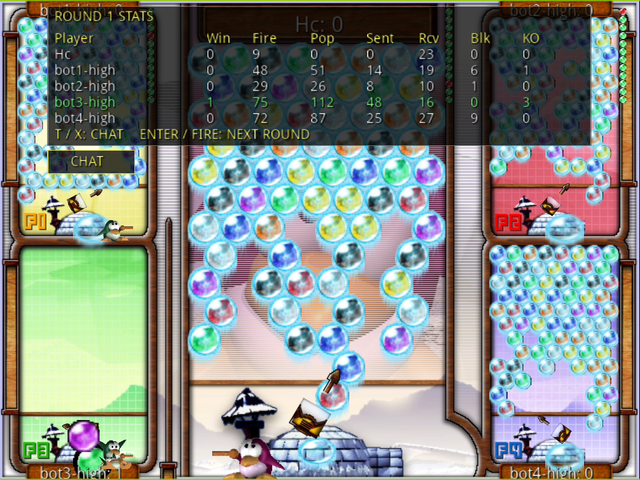
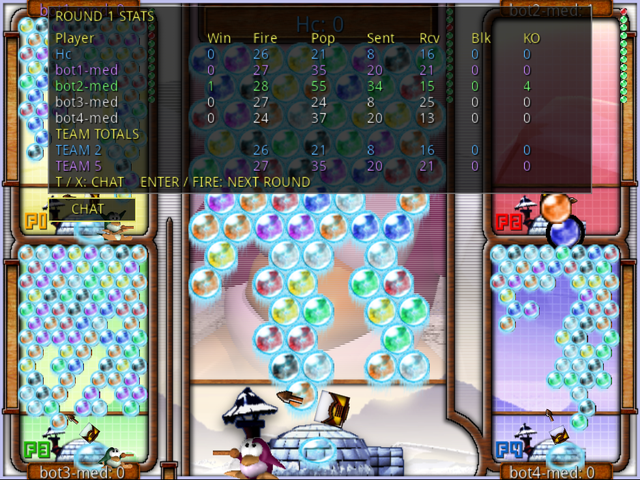
docs: refresh round-stats screenshot to show team totals
Recaptured on the same tablet/local-server rig as the other refreshed
store assets, from a 5-player room with two players on teams. The
stats table's TEAM TOTALS section (Team 2, Team 5) now shows in the
shot, confirming round-stats team aggregation renders correctly. The
previous capture predated teams becoming a per-player setting in every
mode and only showed the per-player rows.

diff --git a/docs/store-assets/README.md b/docs/store-assets/README.md
@@ -12,7 +12,13 @@
   requirements). Landscape, not portrait: the game is TV/landscape-first
   and this is honest to how it actually looks, which is fine — Play doesn't
   require portrait screenshots, just 2–8 images between 320px and 3840px per
-  side with an aspect ratio no more extreme than 2:1.
+  side with an aspect ratio no more extreme than 2:1. Recaptured 2026-09-05
+  on the same tablet/local-server rig as the game-room and Set Teams shots,
+  from a 5-player room with two players on teams — the stats table now
+  shows a **TEAM TOTALS** section (Team 2, Team 5) rolling up Win/Fire/Pop/
+  Sent/Rcv/Blk/KO for each team underneath the per-player rows, confirming
+  the round-stats team aggregation renders correctly. The previous capture
+  had no teams in play and only showed the per-player rows.
 - **`screenshot-1-follow-server.png`**, **`screenshot-4-local-2player.png`**,
   **`screenshot-6-net-5player.png`** (800×600, 24-bit RGB) — gameplay/menu
   captures taken on a real Android tablet with `adb screenrecord`/`screencap`,
